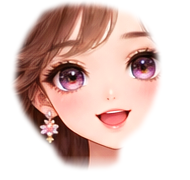
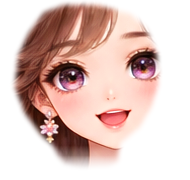
Add files via upload

Changed region(s): [[0.2895, 0.8056, 0.6316, 0.9444]]

diff --git a/index.html b/index.html
@@ -419,7 +419,7 @@ label.block{display:block;font-weight:850;font-size:14px;margin:8px 0 6px}input[
 #draw #dwFloating.dw-floating button{min-height:32px}
 @media(max-width:750px){#draw .dw-options{gap:6px}#draw .dw-layer-panel{padding:6px}}
 
-/* C4.5.35.5 — drawing surface must never become a browser selection. */
+/* C4.5.35.7 — drawing surface must never become a browser selection. */
 #draw #dwCanvasWrap,
 #draw #dwCanvasWrap canvas,
 #draw #dwCanvasWrap #dwLiveInk,
@@ -659,7 +659,7 @@ label.block{display:block;font-weight:850;font-size:14px;margin:8px 0 6px}input[
     <p>🎬 고화질 캐릭터로 장면마다 달라지는</p>
     <h1>나만의 웹툰 창작극장</h1>
     <p>아이의 상상 → 그림 선택·조합 → 손가락으로 꾸미기</p>
-    <span class="pill">MASTER C4.5.35.5 · 내 그림 웹툰 · 주인공 부분 수정</span>
+    <span class="pill">MASTER C4.5.35.7 · 내 그림 웹툰 · 주인공 부분 수정</span>
   </header>
 
   <nav class="tabs">
@@ -672,8 +672,8 @@ label.block{display:block;font-weight:850;font-size:14px;margin:8px 0 6px}input[
 <p id="webtoonLoadingNotice" role="status" aria-live="polite" hidden style="margin:10px 0;padding:10px 14px;background:#fff2d9;border-radius:12px;color:#60472b;font-weight:700"></p>
 
   <details class="card" id="versionPanel" style="margin:12px 0;padding:12px 16px">
-    <summary style="font-size:15px;font-weight:800;cursor:pointer">⚙ 버전 확인·업데이트 <span style="font-weight:500;color:#795b8c">(현재 C4.5.35.5)</span></summary>
-    <p class="sub" id="versionStatus" aria-live="polite" style="margin:9px 0">설치된 버전 C4.5.35.5 · 최신 버전 확인 전</p>
+    <summary style="font-size:15px;font-weight:800;cursor:pointer">⚙ 버전 확인·업데이트 <span style="font-weight:500;color:#795b8c">(현재 C4.5.35.7)</span></summary>
+    <p class="sub" id="versionStatus" aria-live="polite" style="margin:9px 0">설치된 버전 C4.5.35.7 · 최신 버전 확인 전</p>
     <div class="btns">
       <button id="checkVersionNow" type="button" class="secondary">🔄 최신 버전 확인</button>
       <button id="installLatestVersion" type="button" class="primary" hidden>⬆ 새 버전 열기</button>
@@ -1422,7 +1422,7 @@ label.block{display:block;font-weight:850;font-size:14px;margin:8px 0 6px}input[
     </div>
   </section>
 
-  <div class="footer">나만의 웹툰 창작극장 C4.5.35.5 · 그림 자료 분리 · 폴더 없이 업데이트</div>
+  <div class="footer">나만의 웹툰 창작극장 C4.5.35.7 · 그림 자료 분리 · 폴더 없이 업데이트</div>
 </div>
 <div id="toast"></div>
 
@@ -1432,6 +1432,6 @@ label.block{display:block;font-weight:850;font-size:14px;margin:8px 0 6px}input[
 <script defer src="app-core.js?v=45331"></script>
 <script defer src="drawing-workshop.js?v=45331"></script>
 <script defer src="fixed-princess.js?v=4522"></script>
-<script defer src="princess-assembly.js?v=45355"></script>
+<script defer src="princess-assembly.js?v=45357"></script>
 </body>
 </html>

diff --git a/princess-assembly.js b/princess-assembly.js
@@ -1,4 +1,4 @@
-/* C4.5.35.5 · high-quality modular princess prototype.
+/* C4.5.35.7 · high-quality modular princess prototype.
  * Independent of app-core.js, drawing-workshop.js, and existing storage.
  * Layered sprite parts: hairstyle and dress rendered separately, without repainting other features.
  */
@@ -26,7 +26,7 @@
  function getRecords(){try{const a=JSON.parse(localStorage.getItem(STORE)||'[]');return Array.isArray(a)?a:[]}catch{return []}}
  function writeRecords(a){localStorage.setItem(STORE,JSON.stringify(a))}
  function message(s){const el=by('pmMessage');if(el)el.textContent=s}
- function drawPart(c,kind,key){const a=source[key];if(!a)return;let y=kind==='hair'?HEAD_Y:(key==='lavender'?470:530);c.drawImage(asset,a.sx,a.sy,a.sw,a.sh,0,y,a.sw,a.sh)}
+ function drawPart(c,kind,key){const a=source[key];if(!a)return;let y=kind==='hair'?HEAD_Y:(key==='lavender'?470:530);c.drawImage(asset,a.sx,a.sy,a.sw,a.sh,kind==='dress'&&key==='lavender'?9:0,y,a.sw,a.sh)}
  function paint(){
    if(!ready)return;
    context.setTransform(2,0,0,2,0,-OFFSET*2);
@@ -47,7 +47,7 @@
    const st=normalize(value);
    g.setTransform(.25,0,0,.25,0,-OFFSET*.25);
    const dress=source[st.dress],hair=source[st.hair];
-   g.drawImage(asset,dress.sx,dress.sy,dress.sw,dress.sh,0,st.dress==='lavender'?470:530,dress.sw,dress.sh);
+   g.drawImage(asset,dress.sx,dress.sy,dress.sw,dress.sh,st.dress==='lavender'?9:0,st.dress==='lavender'?470:530,dress.sw,dress.sh);
    g.drawImage(asset,hair.sx,hair.sy,hair.sw,hair.sh,0,HEAD_Y,hair.sw,hair.sh);
    if(sharedFace)g.drawImage(sharedFace,200,HEAD_Y+105,190,180);
    return sc.toDataURL('image/png');
@@ -97,7 +97,7 @@
  }
  function loadArt(){if(loading||ready)return;loading=true;message('공주 원화를 불러오는 중이에요…');
    const load=(src)=>new Promise((ok,fail)=>{const im=new Image();im.decoding='async';im.onload=()=>ok(im);im.onerror=()=>fail(new Error(src));im.src=src});
-   Promise.all([load('princess-hq-sheet.png?v=45355'),load('princess-shared-face.png?v=45355')])
+   Promise.all([load('princess-hq-sheet.png?v=45357'),load('princess-shared-face.png?v=45357')])
      .then(([sheet,face])=>{asset=sheet;sharedFace=face;ready=true;loading=false;refresh();showRecords();message('머리 모양을 바꿔도 얼굴과 고개 위치는 그대로 유지돼요.')})
      .catch(e=>{loading=false;message('공주 원화를 불러올 수 없어요. 공주 그림 파일 2개가 함께 업로드되었는지 확인해 주세요.')});
  }
